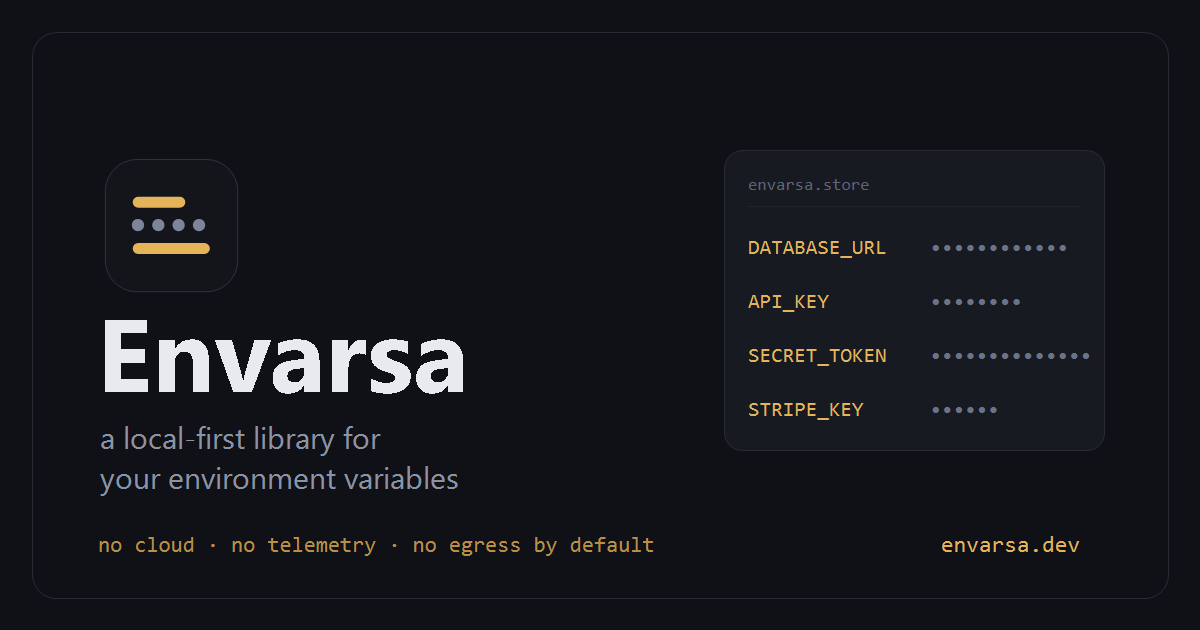
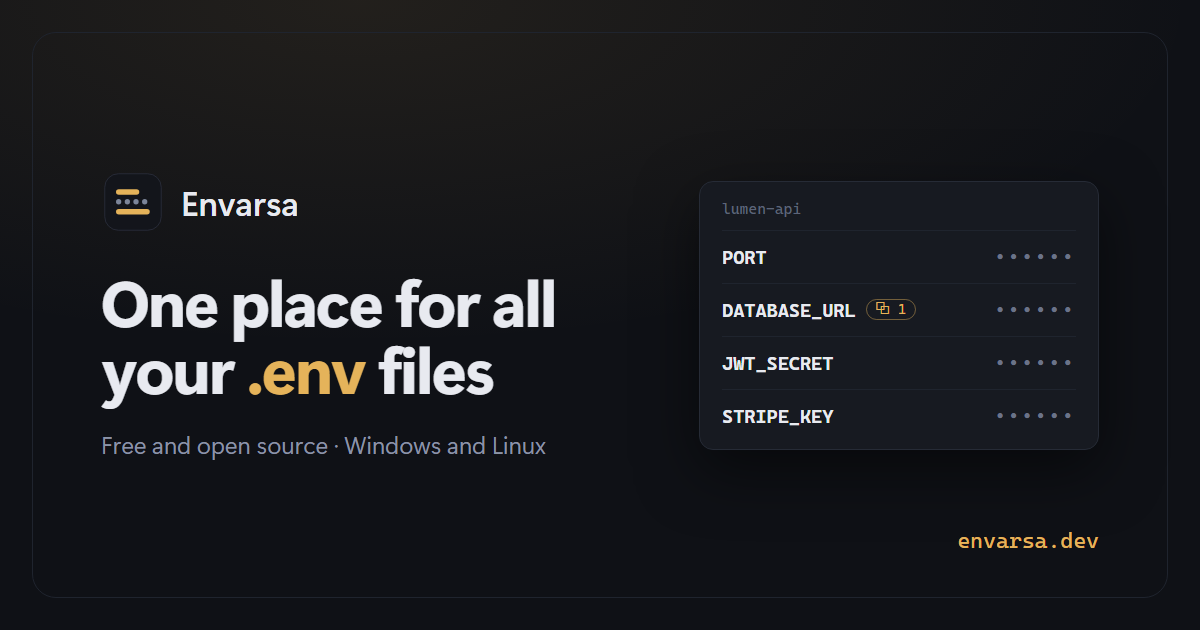
Redraw the Open Graph card with the new headline
The card now has a committed source, tools/og-image.html, rendered to
website/brand/og-image.png with headless Edge; the command is in the
file's header comment. Also adds a matching twitter:image:alt.

diff --git a/tools/og-image.html b/tools/og-image.html
@@ -1,0 +1,71 @@
+<!doctype html>
+<!--
+  Source of website/brand/og-image.png (1200x630). Render it from the repo root
+  in Git Bash with headless Edge:
+
+  "/c/Program Files (x86)/Microsoft/Edge/Application/msedge.exe" --headless --disable-gpu \
+    --hide-scrollbars --force-device-scale-factor=1 --window-size=1200,630 \
+    --screenshot="$(pwd -W)/website/brand/og-image.png" "file:///$(pwd -W)/tools/og-image.html"
+
+  Fonts are the system stacks the site uses, so render on Windows.
+-->
+<html lang="en">
+<head>
+<meta charset="utf-8">
+<title>Envarsa Open Graph card</title>
+<style>
+  :root {
+    --bg: #0f1116; --bg-rail: #13151b; --panel: #171a21; --border: #262b36; --border-soft: #1f242e;
+    --text: #e8eaf0; --muted: #8b93a7; --faint: #5c6478; --accent: #e5b35a; --mask: #6b7388;
+    --mono: "Cascadia Mono", "Cascadia Code", Consolas, monospace;
+    --display: "Segoe UI Variable Display", "Segoe UI", system-ui, sans-serif;
+  }
+  * { box-sizing: border-box; }
+  html, body { margin: 0; width: 1200px; height: 630px; overflow: hidden; background: var(--bg); }
+  body {
+    color: var(--text); font-family: var(--display); -webkit-font-smoothing: antialiased;
+    background: radial-gradient(ellipse 70% 55% at 30% 0%, rgba(229, 179, 90, 0.09), transparent), var(--bg);
+  }
+  .card {
+    position: absolute; inset: 32px; border: 1px solid var(--border-soft); border-radius: 24px;
+    padding: 64px 68px; display: grid; grid-template-columns: 1fr 400px; gap: 56px; align-items: center;
+  }
+  .brand { display: flex; align-items: center; gap: 16px; font-size: 34px; font-weight: 600; margin-bottom: 34px; }
+  .brand img { width: 64px; height: 64px; }
+  h1 { font-size: 64px; line-height: 1.04; letter-spacing: -1.8px; font-weight: 700; margin: 0 0 26px; }
+  h1 .accent { color: var(--accent); }
+  .sub { font-size: 24px; color: var(--muted); margin: 0; }
+  .panel {
+    background: var(--panel); border: 1px solid var(--border); border-radius: 14px;
+    padding: 18px 22px; font-family: var(--mono); box-shadow: 0 20px 60px rgba(0, 0, 0, 0.5);
+  }
+  .panel .hd { color: var(--faint); font-size: 15px; padding-bottom: 12px; border-bottom: 1px solid var(--border-soft); }
+  .kr { display: flex; align-items: center; gap: 10px; padding: 15px 0; border-bottom: 1px solid var(--border-soft); }
+  .kr:last-child { border-bottom: none; padding-bottom: 4px; }
+  .k { font-size: 19px; font-weight: 700; color: var(--text); }
+  .badge {
+    font-size: 14px; color: var(--accent); border: 1px solid rgba(229, 179, 90, 0.45);
+    border-radius: 99px; padding: 1px 9px;
+  }
+  .dots { margin-left: auto; color: var(--mask); letter-spacing: 3px; font-size: 18px; }
+  .url { position: absolute; right: 68px; bottom: 44px; font-family: var(--mono); font-size: 22px; color: var(--accent); }
+</style>
+</head>
+<body>
+  <div class="card">
+    <div>
+      <div class="brand"><img src="../website/brand/mark.svg" alt="">Envarsa</div>
+      <h1>One place for all your <span class="accent">.env</span> files</h1>
+      <p class="sub">Free and open source · Windows and Linux</p>
+    </div>
+    <div class="panel">
+      <div class="hd">lumen-api</div>
+      <div class="kr"><span class="k">PORT</span><span class="dots">••••••</span></div>
+      <div class="kr"><span class="k">DATABASE_URL</span><span class="badge">⧉ 1</span><span class="dots">••••••</span></div>
+      <div class="kr"><span class="k">JWT_SECRET</span><span class="dots">••••••</span></div>
+      <div class="kr"><span class="k">STRIPE_KEY</span><span class="dots">••••••</span></div>
+    </div>
+    <div class="url">envarsa.dev</div>
+  </div>
+</body>
+</html>

diff --git a/website/index.html b/website/index.html
@@ -28,6 +28,7 @@
 <meta name="twitter:title" content="Envarsa: one place for all your .env files">
 <meta name="twitter:description" content="Keep a copy of each project's .env file on your computer, see which projects share a key, and set up a fresh checkout from its .env.example. Free and open source, for Windows and Linux.">
 <meta name="twitter:image" content="https://envarsa.dev/brand/og-image.png">
+<meta name="twitter:image:alt" content="Envarsa card: the app icon and the line 'One place for all your .env files', beside a panel of masked keys, one marked as shared with another project.">
 
 <link rel="manifest" href="/manifest.webmanifest">
 <link rel="apple-touch-icon" sizes="180x180" href="/brand/apple-touch-icon.png">
